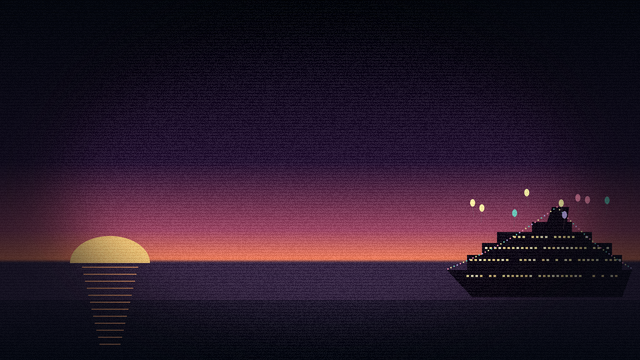
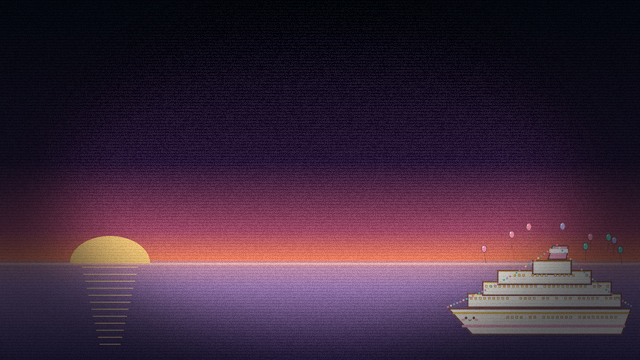
chapter card stand-in: the brief's white gold-trimmed ship with a bow face, set low and clear of the card lines; name tag room for descenders; card prompt at 50% (STYLE.md 4.10)

diff --git a/tools/gen_ui_art.py b/tools/gen_ui_art.py
@@ -645,29 +645,42 @@ def title_screen_plain():
 
 
 def chapter_card():
-    """The ship before the wreck at sunset, lit up, film grain and faint VHS lines; dark enough
-    for the card's 85% white lines to read over it (STYLE.md 4.10)."""
+    """The ship before the wreck at sunset: white with gold trim and a smiling bow face, lit up,
+    string lights and balloons, seen slightly from below over a sunset-gold and lavender sea, with
+    film grain and faint VHS lines. The sky stays dark above the horizon so the card's centred 85%
+    white lines read over it (STYLE.md 4.10); the ship sits low at the right, clear of them."""
     rng = random.Random(83)
-    im = vgrad(W * K, H * K, [(0, "#05080f"), (.45, "#2a1838"), (.64, "#a04a68"), (.72, CORAL), (.73, "#3a2a48"), (1, "#0a0e1a")])
+    sky = vgrad(W * K, H * K, [(0, "#05080f"), (.45, "#2a1838"), (.64, "#a04a68"), (.72, CORAL),
+                               (.73, "#c890a8"), (.8, "#9a78b0"), (1, "#3a2a58")])
+    im = sky.copy()
     d = ImageDraw.Draw(im)
-    ell(d, 70, 236, 150, 290, "#ffd080")                                    # setting sun
-    d.rectangle(box(0, 263, W, 300), fill="#3a2a48")
+    ell(d, 70, 236, 150, 290, "#ffd080")                                    # setting sun, half set
+    im.paste(sky.crop((0, 263 * K, W * K, H * K)), (0, 263 * K))
+    d.rectangle(box(0, 263, W, 265), fill="#f0b8a8")                         # horizon glow
     for i in range(12):                                                      # sun path on the water
         y = 267 + i * 7
         half = 28 - i * 1.6
-        d.line([((110 - half) * K, y * K), ((110 + half) * K, y * K)], fill="#f0a070", width=K)
-    # ship silhouette, slightly from below, bow to the left; drawn large on its own canvas and
-    # set small at the lower right so the card's centred lines stay clear
+        d.line([((110 - half) * K, y * K), ((110 + half) * K, y * K)], fill="#ffd0a0", width=K)
+    # the ship, bow to the left, drawn large on its own canvas then set small at the lower right
     ship_im, d = canvas(W, H)
-    sil = "#140e1c"
-    d.polygon([(250 * K, 230 * K), (620 * K, 230 * K), (600 * K, 284 * K), (300 * K, 284 * K)], fill=sil)
+    hull_lit, deck_lit, trim = "#fff4ec", "#fffaf2", "#e8c060"
+    ow = 3                                                                   # outline, canvas px
+    d.polygon([(250 * K, 230 * K), (620 * K, 230 * K), (600 * K, 284 * K), (300 * K, 284 * K)],
+              fill=hull_lit, outline=INK, width=ow * K)
+    d.line([(262 * K, 240 * K), (614 * K, 240 * K)], fill=trim, width=4 * K)    # gold trim
+    d.line([(280 * K, 266 * K), (606 * K, 266 * K)], fill=PINK, width=5 * K)    # pink stripe
     for x0, x1, y0 in ((290, 600, 200), (320, 580, 176), (350, 540, 154), (420, 500, 134)):
-        d.rectangle(box(x0, y0, x1, y0 + 30), fill=sil)
-    d.polygon([(450 * K, 134 * K), (460 * K, 104 * K), (494 * K, 104 * K), (490 * K, 134 * K)], fill=sil)
-    for y0, x0, x1 in ((208, 296, 596), (184, 326, 576), (162, 356, 536), (240, 280, 590)):
+        d.rectangle(box(x0, y0, x1, y0 + 30), fill=deck_lit, outline=INK, width=ow * K)
+        d.line([((x0 + 3) * K, (y0 + 3) * K), ((x1 - 3) * K, (y0 + 3) * K)], fill=trim, width=2 * K)
+    d.polygon([(450 * K, 134 * K), (460 * K, 104 * K), (494 * K, 104 * K), (490 * K, 134 * K)],
+              fill=PINK, outline=INK, width=ow * K)                          # funnel
+    d.rectangle(box(455, 112, 492, 120), fill=WHITE)
+    for y0, x0, x1 in ((208, 296, 596), (184, 326, 576), (162, 356, 536), (246, 360, 590)):
         for x in range(x0, x1, 9):
             if rng.random() < .82:
-                d.rectangle(box(x, y0, x + 5, y0 + 4), fill=rng.choice(["#ffe9a0", "#ffd890", "#fff3c8"]))
+                d.rectangle(box(x, y0, x + 5, y0 + 5), fill=rng.choice(["#ffe08a", "#ffd070", "#fff0b0"]),
+                            outline="#c09060", width=K)
+    face(d, 296, 250, 2.6)                                                   # smiling bow
     # string lights from bow to funnel to stern, and balloons
     import math
     for (ax, ay), (bx, by) in (((252, 228), (470, 104)), ((470, 104), (618, 226))):
@@ -676,15 +689,16 @@ def chapter_card():
             t = i / n
             x, y = ax + (bx - ax) * t, ay + (by - ay) * t + math.sin(t * math.pi) * 10
             c = [ROSE, SPARK, TURQ, LAVENDER][i % 4]
-            ell(d, x - 1.5, y - 1.5, x + 1.5, y + 1.5, c)
+            ell(d, x - 2, y - 2, x + 2, y + 2, c)
     for _ in range(9):
-        x, y = rng.uniform(300, 620), rng.uniform(60, 130)
+        x, y = rng.uniform(320, 620), rng.uniform(64, 120)
         c = rng.choice([ROSE, LAVENDER, TURQ, SPARK])
-        d.line([(x * K, (y + 9) * K), ((x + rng.uniform(-4, 4)) * K, (y + 30) * K)], fill="#806070", width=K // 2)
-        ell(d, x - 5, y - 6, x + 5, y + 9, c)
+        d.line([(x * K, (y + 9) * K), ((x + rng.uniform(-4, 4)) * K, (y + 30) * K)], fill=INK, width=K)
+        ell(d, x - 6, y - 7, x + 6, y + 9, c, INK, 1.5)
+        ell(d, x - 3.5, y - 4, x - 1, y - 1, WHITE)
     ship_im = ship_im.crop((240 * K, 50 * K, 630 * K, 290 * K))
     ship_im = ship_im.resize((ship_im.width // 2, ship_im.height // 2), Image.LANCZOS)
-    im.alpha_composite(ship_im, (442 * K, 180 * K))
+    im.alpha_composite(ship_im, (442 * K, 218 * K))
     out = down(im, W, H)
     # film grain, VHS lines and a vignette
     px = out.load()

diff --git a/project/assets/ASSETS.md b/project/assets/ASSETS.md
@@ -13,7 +13,7 @@ prompt it stands in for (a Gemini render synced to that path replaces it). Paths
 | `assets/ui/backdrops/ship_cutaway.png` | ship_cutaway | tools/gen_ui_art.py | static; The Landing station map, 600x150 | - |
 | `assets/ui/backdrops/talk_show_set.png` | talk_show_set | tools/gen_ui_art.py | static; The Interview backdrop, 640x360 | - |
 | `assets/ui/backdrops/temple_altar.png` | temple_altar | tools/gen_ui_art.py | static; ritual puzzle backdrop, 640x360 (canon prop_pillar_orb) | - |
-| `assets/ui/chapter_cards/chapter_card_before_the_wreck.png` | chapter_card_before_the_wreck | tools/gen_ui_art.py (stand-in) | static; 640x360, behind chapter_end and flashback_card text | `prompts/image/ui/chapter_cards/chapter_card_before_the_wreck.md` |
+| `assets/ui/chapter_cards/chapter_card_before_the_wreck.png` | chapter_card_before_the_wreck | tools/gen_ui_art.py (stand-in) | static; 640x360, white gold-trimmed ship low right, clear of the centred lines, behind chapter_end and flashback_card text | `prompts/image/ui/chapter_cards/chapter_card_before_the_wreck.md` |
 | `assets/ui/chrome/altar_tile_gold.png` | altar_tile_gold | tools/gen_ui_art.py | static; ritual puzzle altar tile, gold (9-slice, margin 7) | - |
 | `assets/ui/chrome/altar_tile_rose.png` | altar_tile_rose | tools/gen_ui_art.py | static; ritual puzzle altar tile, rose (9-slice, margin 7) | - |
 | `assets/ui/chrome/altar_tile_selected.png` | altar_tile_selected | tools/gen_ui_art.py | static; ritual puzzle altar tile, selected (9-slice, margin 7) | - |
